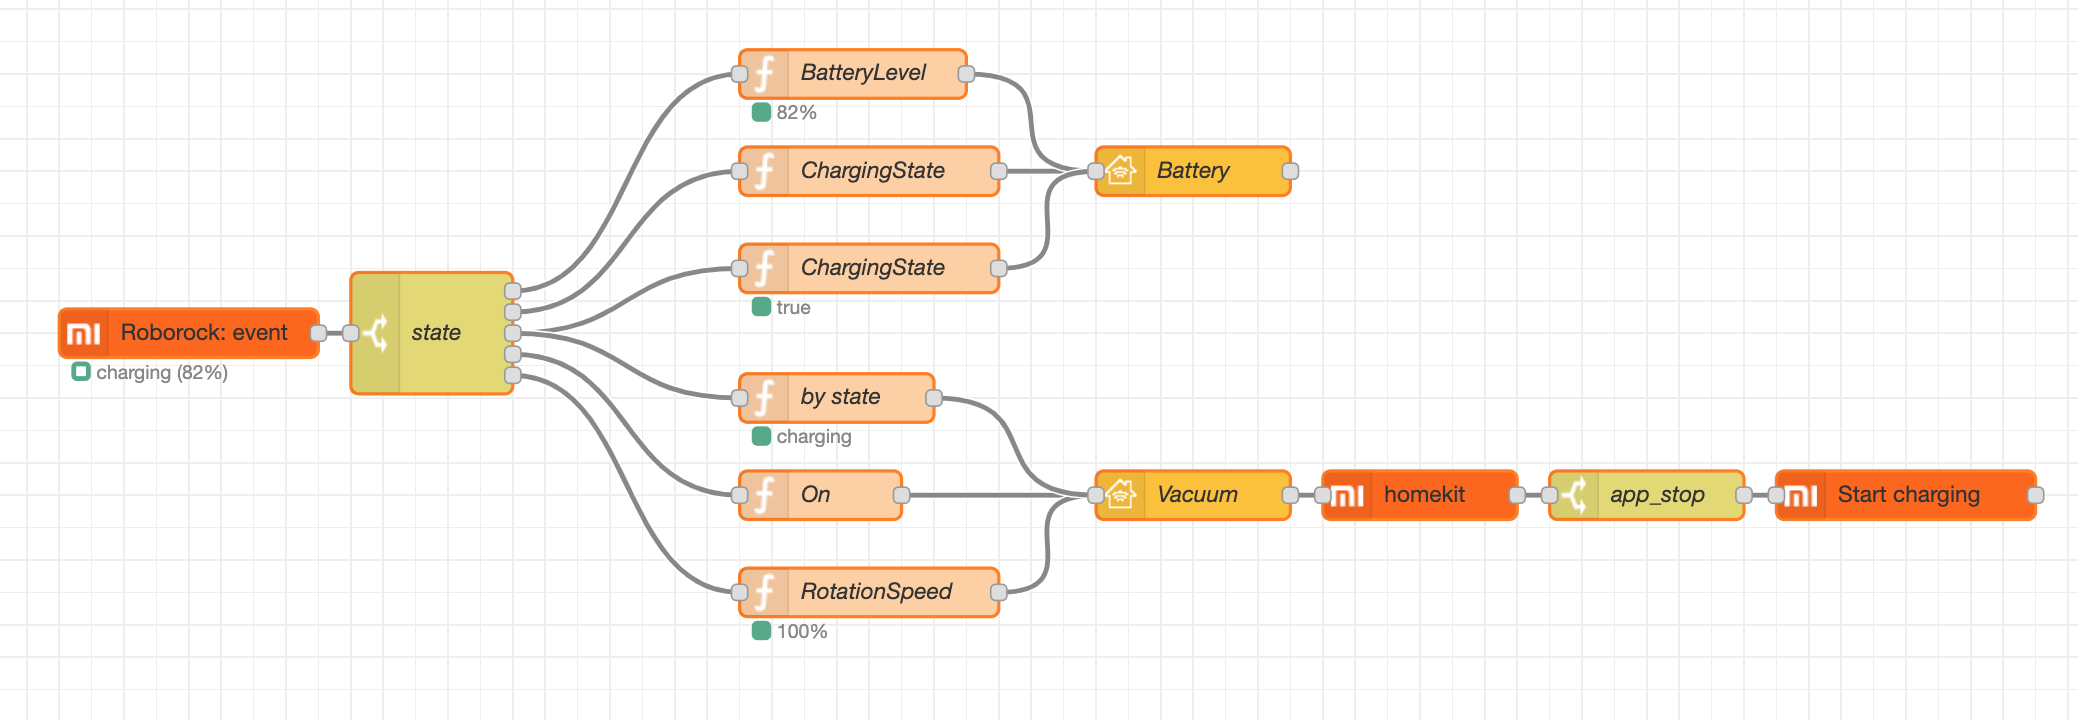
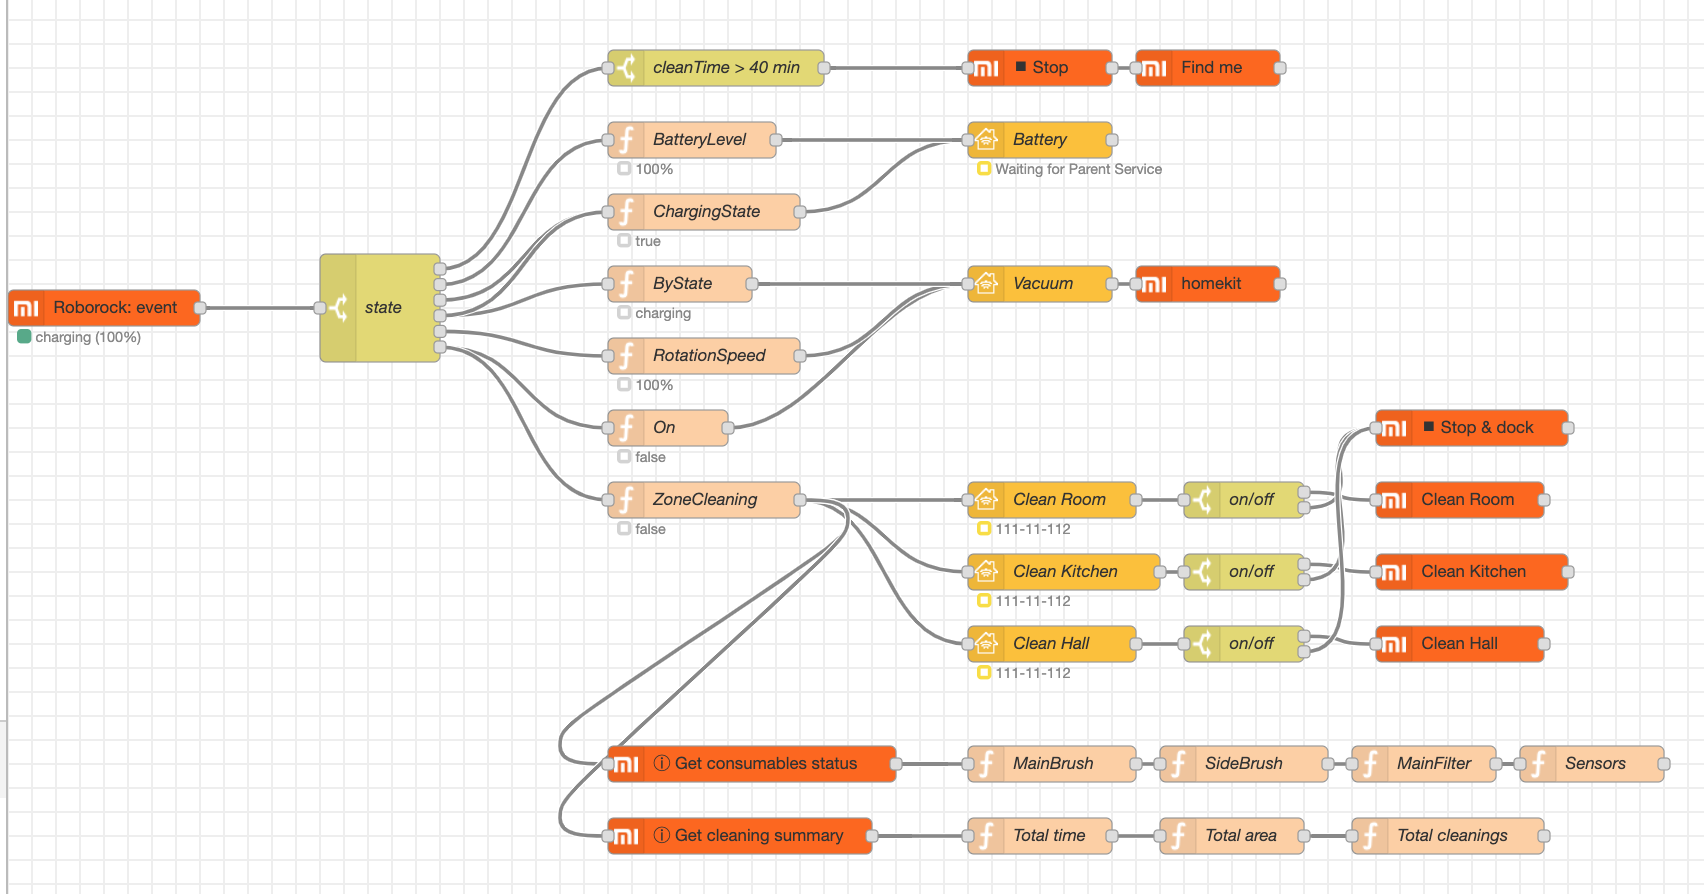
readme

Changed region(s): [[0.0, 0.0306, 0.9953, 0.8861], [0.3421, 0.9167, 0.9331, 0.9778]]

diff --git a/README.md b/README.md
@@ -2,13 +2,15 @@
 
 Node-Red Nodes for Xiaomi Roborock Vacuum connectivity.
 
-<b>Important:</b> Test version until <b>1.0.0</b> release. Bugs are possible.
+<b>Important:</b> works and tested with Roborock s50 (2gen)
 
 Available nodes are:
 * miio-roborock-command: control your vacuum
 * miio-roborock-event: get events from vacuum
 
 <img src="https://github.com/andreypopov/node-red-contrib-miio-roborock/blob/master/readme/1.png?raw=true">
+<img src="https://github.com/andreypopov/node-red-contrib-miio-roborock/blob/master/readme/2.png?raw=true">
+<img src="https://github.com/andreypopov/node-red-contrib-miio-roborock/blob/master/readme/3.png?raw=true">
 
 
 
